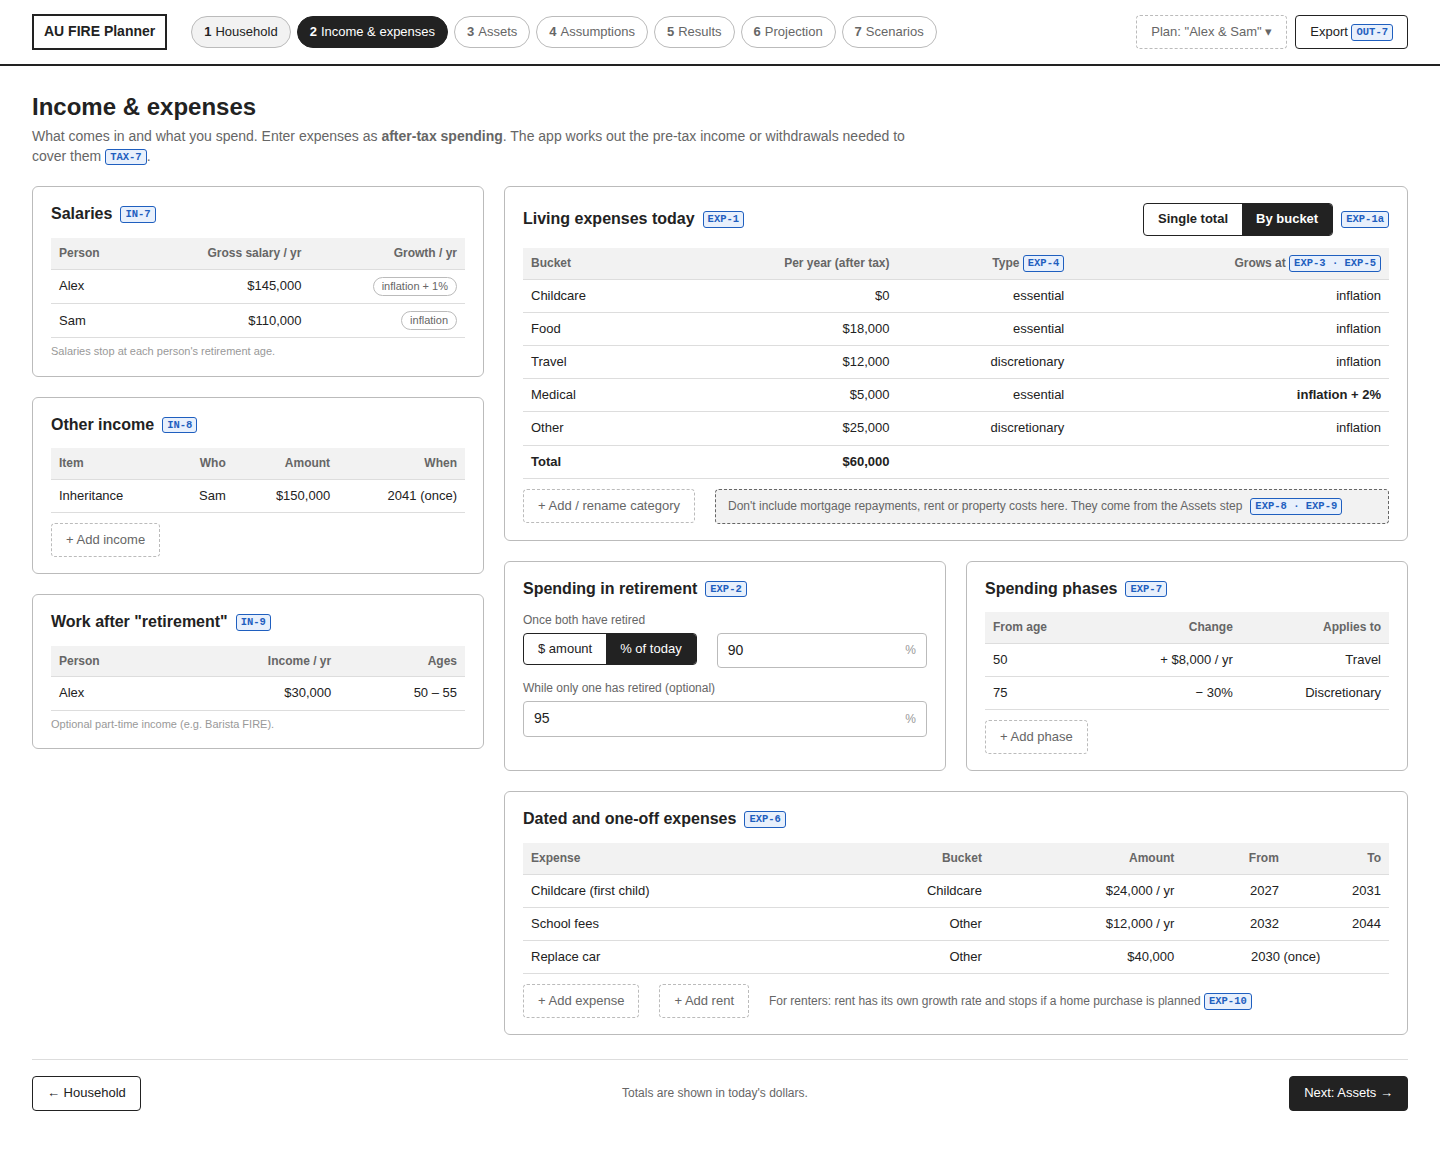
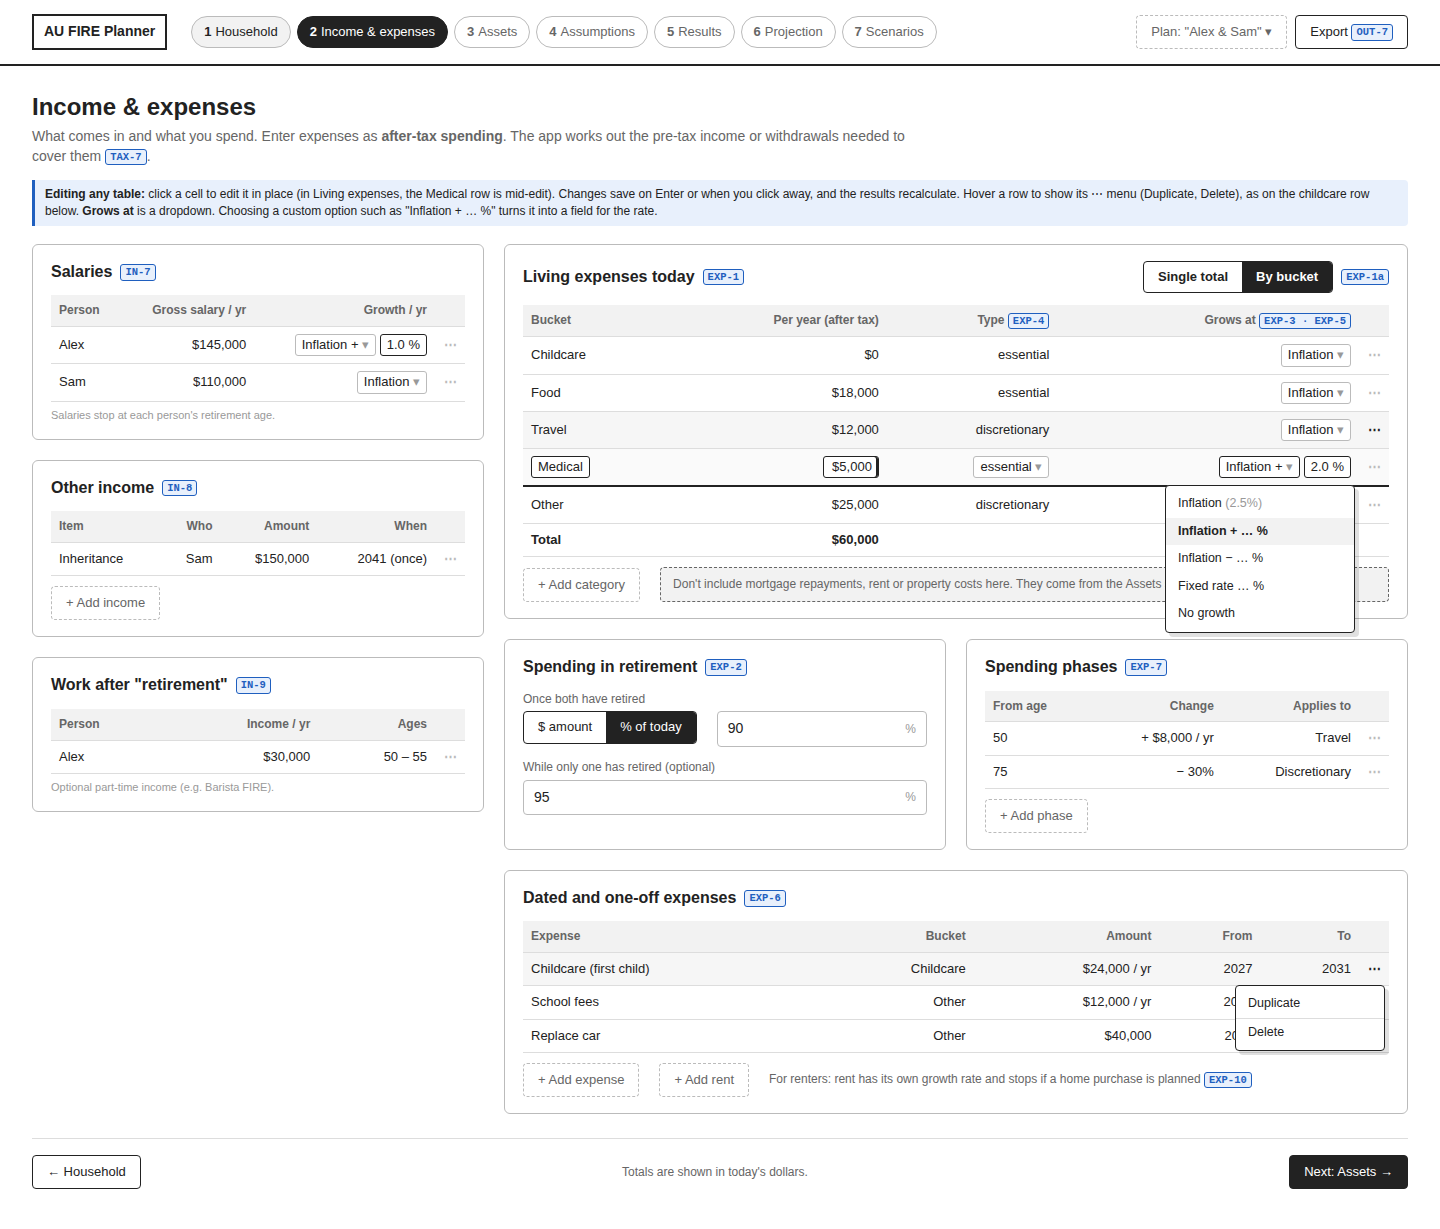
Show how rows are edited in the mockup tables
Review asked how editing a row works in the input tables, and where
editing lives, because the static wireframes didn't show it. Review
also asked for "Grows at" to be a dropdown that can turn into a field.

All input tables now follow one pattern:
- click a cell to edit it in place; changes save on Enter or when
  focus leaves, and the results recalculate;
- hovering a row reveals a ⋯ menu with Duplicate and Delete;
- growth-rate cells are dropdowns (Inflation, Inflation ± …%, Fixed
  rate …%, No growth); a custom option adds a number field for the rate.

Income & expenses shows a row mid-edit with the Grows-at list open and
a row with its menu open, plus a note explaining the pattern. The
other input tables (property costs, cash and debts, temporary
assumption changes) get the same ⋯ column and dropdowns. The
read-only tax rules table is left as it was.

Claude-Session: https://claude.ai/code/session_01CkXEKQ2deJcmokvWZ3pCCG

diff --git a/requirements/mockups/src/02-income-expenses.html b/requirements/mockups/src/02-income-expenses.html
@@ -12,15 +12,18 @@
     <h1 class="page-title">Income &amp; expenses</h1>
     <p class="page-intro">What comes in and what you spend. Enter expenses as <b>after-tax spending</b>. The app works out the pre-tax income or withdrawals needed to cover them <span class="req">TAX-7</span>.</p>
 
+    <div class="howto" style="margin: -6px 0 18px"><b>Editing any table:</b> click a cell to edit it in place (in Living expenses, the Medical row is mid-edit).
+            Changes save on Enter or when you click away, and the results recalculate. Hover a row to show its ⋯ menu (Duplicate, Delete), as on the childcare row below.
+            <b>Grows at</b> is a dropdown. Choosing a custom option such as "Inflation + … %" turns it into a field for the rate.</div>
     <div class="row">
       <!-- Left: income -->
       <div class="col">
         <div class="card" style="margin-bottom: 20px">
           <h3>Salaries <span class="req">IN-7</span></h3>
           <table>
-            <tr><th>Person</th><th>Gross salary / yr</th><th>Growth / yr</th></tr>
-            <tr><td>Alex</td><td>$145,000</td><td><span class="chip">inflation + 1%</span></td></tr>
-            <tr><td>Sam</td><td>$110,000</td><td><span class="chip">inflation</span></td></tr>
+            <tr><th>Person</th><th>Gross salary / yr</th><th>Growth / yr</th><th class="act"></th></tr>
+            <tr><td>Alex</td><td>$145,000</td><td><span class="dropdown">Inflation +</span> <span class="cell-input" style="min-width: 0">1.0 %</span></td><td class="act">⋯</td></tr>
+            <tr><td>Sam</td><td>$110,000</td><td><span class="dropdown">Inflation</span></td><td class="act">⋯</td></tr>
           </table>
           <div class="hint" style="margin-top: 6px">Salaries stop at each person's retirement age.</div>
         </div>
@@ -28,8 +31,8 @@
         <div class="card" style="margin-bottom: 20px">
           <h3>Other income <span class="req">IN-8</span></h3>
           <table>
-            <tr><th>Item</th><th>Who</th><th>Amount</th><th>When</th></tr>
-            <tr><td>Inheritance</td><td>Sam</td><td>$150,000</td><td>2041 (once)</td></tr>
+            <tr><th>Item</th><th>Who</th><th>Amount</th><th>When</th><th class="act"></th></tr>
+            <tr><td>Inheritance</td><td>Sam</td><td>$150,000</td><td>2041 (once)</td><td class="act">⋯</td></tr>
           </table>
           <div style="margin-top: 10px"><span class="btn ghost">+ Add income</span></div>
         </div>
@@ -37,8 +40,8 @@
         <div class="card">
           <h3>Work after "retirement" <span class="req">IN-9</span></h3>
           <table>
-            <tr><th>Person</th><th>Income / yr</th><th>Ages</th></tr>
-            <tr><td>Alex</td><td>$30,000</td><td>50 – 55</td></tr>
+            <tr><th>Person</th><th>Income / yr</th><th>Ages</th><th class="act"></th></tr>
+            <tr><td>Alex</td><td>$30,000</td><td>50 – 55</td><td class="act">⋯</td></tr>
           </table>
           <div class="hint" style="margin-top: 6px">Optional part-time income (e.g. Barista FIRE).</div>
         </div>
@@ -52,16 +55,24 @@
             <span class="toggle"><span>Single total</span><span class="on">By bucket</span></span> <span class="req">EXP-1a</span>
           </h3>
           <table>
-            <tr><th>Bucket</th><th>Per year (after tax)</th><th>Type <span class="req">EXP-4</span></th><th>Grows at <span class="req">EXP-3 · EXP-5</span></th></tr>
-            <tr><td>Childcare</td><td>$0</td><td>essential</td><td>inflation</td></tr>
-            <tr><td>Food</td><td>$18,000</td><td>essential</td><td>inflation</td></tr>
-            <tr><td>Travel</td><td>$12,000</td><td>discretionary</td><td>inflation</td></tr>
-            <tr><td>Medical</td><td>$5,000</td><td>essential</td><td><b>inflation + 2%</b></td></tr>
-            <tr><td>Other</td><td>$25,000</td><td>discretionary</td><td>inflation</td></tr>
-            <tr><td><b>Total</b></td><td><b>$60,000</b></td><td></td><td></td></tr>
+            <tr><th>Bucket</th><th>Per year (after tax)</th><th>Type <span class="req">EXP-4</span></th><th>Grows at <span class="req">EXP-3 · EXP-5</span></th><th class="act"></th></tr>
+            <tr><td>Childcare</td><td>$0</td><td>essential</td><td><span class="dropdown">Inflation</span></td><td class="act">⋯</td></tr>
+            <tr><td>Food</td><td>$18,000</td><td>essential</td><td><span class="dropdown">Inflation</span></td><td class="act">⋯</td></tr>
+            <tr class="hover"><td>Travel</td><td>$12,000</td><td>discretionary</td><td><span class="dropdown">Inflation</span></td><td class="act">⋯</td></tr>
+            <tr class="editing"><td><span class="cell-input">Medical</span></td><td><span class="cell-input caret" style="text-align: right">$5,000</span></td><td><span class="dropdown">essential</span></td>
+              <td class="relative"><span class="dropdown open">Inflation +</span> <span class="cell-input" style="min-width: 0">2.0 %</span>
+                <div class="menu">
+                  <div>Inflation <span class="muted">(2.5%)</span></div>
+                  <div class="on">Inflation + … %</div>
+                  <div>Inflation − … %</div>
+                  <div>Fixed rate … %</div>
+                  <div>No growth</div>
+                </div></td><td class="act">⋯</td></tr>
+            <tr><td>Other</td><td>$25,000</td><td>discretionary</td><td><span class="dropdown">Inflation</span></td><td class="act">⋯</td></tr>
+            <tr><td><b>Total</b></td><td><b>$60,000</b></td><td></td><td></td><td class="act"></td></tr>
           </table>
           <div class="row" style="margin-top: 10px; align-items: center">
-            <span class="btn ghost">+ Add / rename category</span>
+            <span class="btn ghost">+ Add category</span>
             <div class="banner" style="flex: 1">Don't include mortgage repayments, rent or property costs here. They come from the Assets step <span class="req">EXP-8 · EXP-9</span></div>
           </div>
         </div>
@@ -76,9 +87,9 @@
           <div class="card">
             <h3>Spending phases <span class="req">EXP-7</span></h3>
             <table>
-              <tr><th>From age</th><th>Change</th><th>Applies to</th></tr>
-              <tr><td>50</td><td>+ $8,000 / yr</td><td>Travel</td></tr>
-              <tr><td>75</td><td>− 30%</td><td>Discretionary</td></tr>
+              <tr><th>From age</th><th>Change</th><th>Applies to</th><th class="act"></th></tr>
+              <tr><td>50</td><td>+ $8,000 / yr</td><td>Travel</td><td class="act">⋯</td></tr>
+              <tr><td>75</td><td>− 30%</td><td>Discretionary</td><td class="act">⋯</td></tr>
             </table>
             <div style="margin-top: 10px"><span class="btn ghost">+ Add phase</span></div>
           </div>
@@ -87,10 +98,11 @@
         <div class="card">
           <h3>Dated and one-off expenses <span class="req">EXP-6</span></h3>
           <table>
-            <tr><th>Expense</th><th>Bucket</th><th>Amount</th><th>From</th><th>To</th></tr>
-            <tr><td>Childcare (first child)</td><td>Childcare</td><td>$24,000 / yr</td><td>2027</td><td>2031</td></tr>
-            <tr><td>School fees</td><td>Other</td><td>$12,000 / yr</td><td>2032</td><td>2044</td></tr>
-            <tr><td>Replace car</td><td>Other</td><td>$40,000</td><td colspan="2" style="text-align: center">2030 (once)</td></tr>
+            <tr><th>Expense</th><th>Bucket</th><th>Amount</th><th>From</th><th>To</th><th class="act"></th></tr>
+            <tr class="hover"><td>Childcare (first child)</td><td>Childcare</td><td>$24,000 / yr</td><td>2027</td><td>2031</td><td class="act relative">⋯
+              <div class="menu" style="min-width: 150px"><div>Duplicate</div><div class="danger">Delete</div></div></td></tr>
+            <tr><td>School fees</td><td>Other</td><td>$12,000 / yr</td><td>2032</td><td>2044</td><td class="act">⋯</td></tr>
+            <tr><td>Replace car</td><td>Other</td><td>$40,000</td><td colspan="2" style="text-align: center">2030 (once)</td><td class="act">⋯</td></tr>
           </table>
           <div class="row" style="margin-top: 10px; align-items: center">
             <span class="btn ghost">+ Add expense</span>

diff --git a/requirements/mockups/src/wireframe.css b/requirements/mockups/src/wireframe.css
@@ -233,3 +233,74 @@ tr.shortfall td { background: #eee; font-weight: 700; }
 .radio { display: flex; gap: 8px; align-items: flex-start; margin-bottom: 8px; font-size: 13px; }
 .radio b.dot { width: 14px; height: 14px; border: 1.5px solid var(--ink); border-radius: 50%; flex: none; margin-top: 2px; }
 .radio b.dot.on { background: radial-gradient(var(--ink) 40%, transparent 45%); }
+
+/* ---------- Editable tables ----------
+ * Every input table follows one editing pattern:
+ *   - click any cell to edit it in place (tr.editing shows a row mid-edit);
+ *     changes save on Enter or when focus leaves, and results recalculate;
+ *   - hovering a row reveals its ⋯ menu (td.act) with Duplicate and Delete;
+ *   - "+ Add" buttons append a new row already in edit mode.
+ * Growth-rate cells are dropdowns (.dropdown); picking a custom option turns
+ * the cell into a dropdown plus a number field (.cell-input).
+ */
+
+th.act, td.act { width: 30px; text-align: center !important; color: var(--line); font-weight: 700; }
+tr.hover td { background: #f6f6f6; }
+tr.hover td.act { color: var(--ink); }
+tr.editing td { background: #fafafa; border-bottom: 2px solid var(--ink); }
+td.relative { position: relative; }
+
+.cell-input {
+  display: inline-block;
+  min-width: 56px;
+  border: 1.5px solid var(--ink);
+  border-radius: 3px;
+  padding: 1px 6px;
+  background: var(--paper);
+  text-align: left;
+}
+
+.cell-input.caret { box-shadow: inset -2px 0 0 var(--ink); }
+
+.dropdown {
+  display: inline-block;
+  border: 1px solid var(--line);
+  border-radius: 3px;
+  padding: 1px 6px;
+  background: var(--paper);
+  white-space: nowrap;
+}
+
+.dropdown::after { content: " ▾"; color: var(--ink-faint); }
+.dropdown.open { border: 1.5px solid var(--ink); }
+
+/* An open dropdown list or row menu, drawn over the table. */
+.menu {
+  position: absolute;
+  right: 4px;
+  top: 100%;
+  z-index: 3;
+  min-width: 190px;
+  background: var(--paper);
+  border: 1.5px solid var(--ink);
+  border-radius: 4px;
+  box-shadow: 4px 4px 0 rgba(0, 0, 0, .12);
+  padding: 4px 0;
+  text-align: left;
+  font-size: 12.5px;
+}
+
+.menu div { padding: 5px 12px; white-space: nowrap; color: var(--ink); font-weight: 400; }
+.menu div.on { background: var(--fill); font-weight: 700; }
+.menu div.danger { border-top: 1px solid var(--line-soft); }
+.menu .muted { color: var(--ink-faint); }
+
+/* Annotation explaining an interaction that a static image can't show. */
+.howto {
+  border-left: 3px solid var(--callout);
+  background: var(--callout-bg);
+  padding: 6px 10px;
+  font-size: 12px;
+  color: var(--ink);
+  border-radius: 0 4px 4px 0;
+}

diff --git a/requirements/mockups/src/03a-assets-home.html b/requirements/mockups/src/03a-assets-home.html
@@ -76,19 +76,20 @@
           <div class="card">
             <h3>Holding costs <span class="req">PROP-2</span></h3>
             <table>
-              <tr><th>Cost</th><th>Per year</th><th>Grows at</th></tr>
-              <tr><td>Council rates</td><td>$2,400</td><td>inflation</td></tr>
-              <tr><td>Water</td><td>$1,100</td><td>inflation</td></tr>
-              <tr><td>Insurance</td><td>$2,200</td><td>inflation + 2%</td></tr>
-              <tr><td>Maintenance</td><td>$4,000</td><td>inflation</td></tr>
-              <tr><td>Strata</td><td>$0</td><td>inflation</td></tr>
+              <tr><th>Cost</th><th>Per year</th><th>Grows at</th><th class="act"></th></tr>
+              <tr><td>Council rates</td><td>$2,400</td><td><span class="dropdown">Inflation</span></td><td class="act">⋯</td></tr>
+              <tr><td>Water</td><td>$1,100</td><td><span class="dropdown">Inflation</span></td><td class="act">⋯</td></tr>
+              <tr><td>Insurance</td><td>$2,200</td><td><span class="dropdown">Inflation +</span> <span class="cell-input" style="min-width: 0">2.0 %</span></td><td class="act">⋯</td></tr>
+              <tr class="hover"><td>Maintenance</td><td>$4,000</td><td><span class="dropdown">Inflation</span></td><td class="act">⋯</td></tr>
+              <tr><td>Strata</td><td>$0</td><td><span class="dropdown">Inflation</span></td><td class="act">⋯</td></tr>
             </table>
+            <div class="hint" style="margin-top: 6px">Click any cell to edit it. Hover a row for its ⋯ menu. Tables work the same way on every screen.</div>
           </div>
           <div class="card">
             <h3>Planned changes <span class="req">PROP-12 · PROP-13</span></h3>
             <table>
-              <tr><th>Year</th><th>Event</th><th>Freed equity goes to</th></tr>
-              <tr><td>2062</td><td>Downsize: sell, buy $900k replacement</td><td>Super (downsizer) <span class="req">SUPER-11</span></td></tr>
+              <tr><th>Year</th><th>Event</th><th>Freed equity goes to</th><th class="act"></th></tr>
+              <tr><td>2062</td><td>Downsize: sell, buy $900k replacement</td><td>Super (downsizer) <span class="req">SUPER-11</span></td><td class="act">⋯</td></tr>
             </table>
             <div class="hint" style="margin: 6px 0 10px">Selling costs and stamp duty on the replacement are included.</div>
             <span class="btn ghost">+ Plan a purchase, sale or downsize</span>

diff --git a/requirements/mockups/src/03c-assets-investment-property.html b/requirements/mockups/src/03c-assets-investment-property.html
@@ -43,15 +43,15 @@
           <div class="card">
             <h3>Costs out <span class="req">PROP-2</span></h3>
             <table>
-              <tr><th>Cost</th><th>Per year</th></tr>
-              <tr><td>Council rates + water</td><td>$2,700</td></tr>
-              <tr><td>Strata</td><td>$3,200</td></tr>
-              <tr><td>Insurance (landlord)</td><td>$1,400</td></tr>
-              <tr><td>Maintenance</td><td>$1,500</td></tr>
-              <tr><td>Management fee</td><td>7% of rent</td></tr>
-              <tr><td>Land tax</td><td>$1,800</td></tr>
+              <tr><th>Cost</th><th>Per year</th><th>Grows at</th><th class="act"></th></tr>
+              <tr><td>Council rates + water</td><td>$2,700</td><td><span class="dropdown">Inflation</span></td><td class="act">⋯</td></tr>
+              <tr><td>Strata</td><td>$3,200</td><td><span class="dropdown">Inflation</span></td><td class="act">⋯</td></tr>
+              <tr><td>Insurance (landlord)</td><td>$1,400</td><td><span class="dropdown">Inflation</span></td><td class="act">⋯</td></tr>
+              <tr><td>Maintenance</td><td>$1,500</td><td><span class="dropdown">Inflation</span></td><td class="act">⋯</td></tr>
+              <tr><td>Management fee</td><td>7% of rent</td><td><span class="dropdown">With rent</span></td><td class="act">⋯</td></tr>
+              <tr><td>Land tax</td><td>$1,800</td><td><span class="dropdown">Inflation</span></td><td class="act">⋯</td></tr>
             </table>
-            <div class="hint">Each cost grows at inflation unless changed.</div>
+            <div class="hint">Click any cell to edit it. Hover a row for its ⋯ menu.</div>
           </div>
 
           <div class="card">

diff --git a/requirements/mockups/src/03d-assets-super-cash-debts.html b/requirements/mockups/src/03d-assets-super-cash-debts.html
@@ -66,16 +66,16 @@
           <div class="card">
             <h3>Cash <span class="req">IN-26</span></h3>
             <table>
-              <tr><th>Account</th><th>Balance</th><th>Earns</th></tr>
-              <tr><td>Savings</td><td>$30,000</td><td>General interest rate (4.0%)</td></tr>
+              <tr><th>Account</th><th>Balance</th><th>Earns</th><th class="act"></th></tr>
+              <tr><td>Savings</td><td>$30,000</td><td>General interest rate (4.0%)</td><td class="act">⋯</td></tr>
             </table>
           </div>
           <div class="card">
             <h3>Other debts <span class="req">IN-27</span></h3>
             <table>
-              <tr><th>Debt</th><th>Balance</th><th>Rate</th><th>Repayments</th></tr>
-              <tr><td>Car loan (Alex)</td><td>$18,000</td><td>7.5%</td><td>$650 / month</td></tr>
-              <tr><td>HELP debt (Sam)</td><td>$22,000</td><td>CPI-indexed</td><td>Compulsory <span class="req">TAX-11</span></td></tr>
+              <tr><th>Debt</th><th>Balance</th><th>Rate</th><th>Repayments</th><th class="act"></th></tr>
+              <tr><td>Car loan (Alex)</td><td>$18,000</td><td>7.5%</td><td>$650 / month</td><td class="act">⋯</td></tr>
+              <tr><td>HELP debt (Sam)</td><td>$22,000</td><td>CPI-indexed</td><td>Compulsory <span class="req">TAX-11</span></td><td class="act">⋯</td></tr>
             </table>
           </div>
         </div>

diff --git a/requirements/mockups/src/04-assumptions.html b/requirements/mockups/src/04-assumptions.html
@@ -30,8 +30,8 @@
           </div>
           <h4>Temporary changes <span class="req">IN-13</span></h4>
           <table>
-            <tr><th>Years</th><th>Inflation</th><th>Interest rate</th></tr>
-            <tr><td>2026 – 2028</td><td>3.5%</td><td>4.5%</td></tr>
+            <tr><th>Years</th><th>Inflation</th><th>Interest rate</th><th class="act"></th></tr>
+            <tr><td>2026 – 2028</td><td>3.5%</td><td>4.5%</td><td class="act">⋯</td></tr>
           </table>
           <div style="margin-top: 10px"><span class="btn ghost">+ Add a period</span></div>
         </div>
